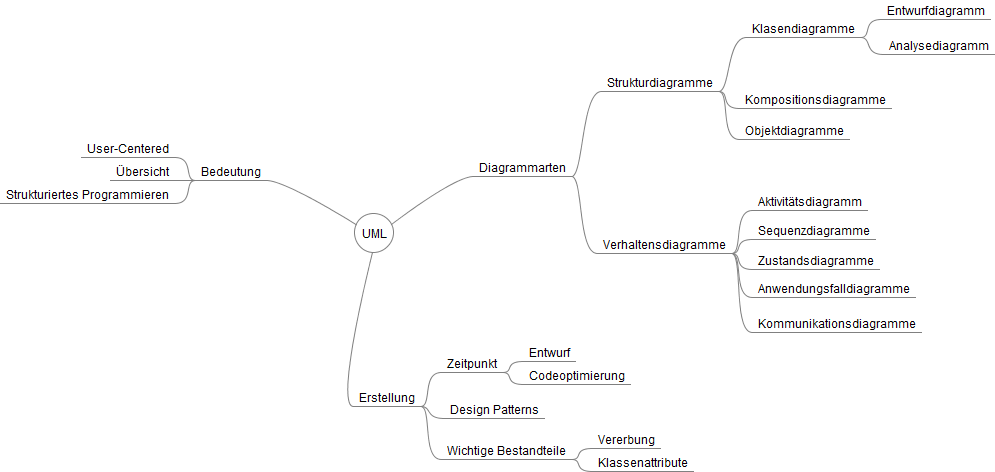
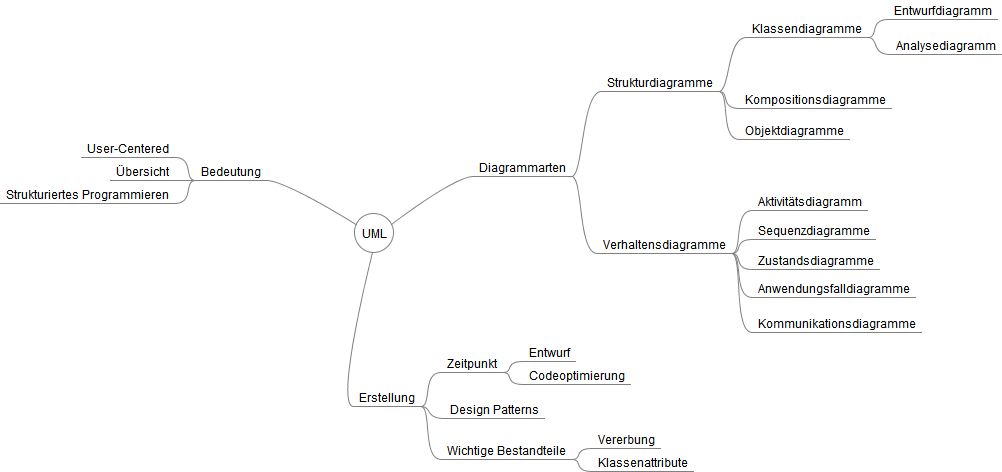
Correct spelling

diff --git a/aufgabe_2/mindmap.mm b/aufgabe_2/mindmap.mm
@@ -3,7 +3,7 @@
 <node CREATED="1524169838149" ID="ID_367882199" MODIFIED="1524170025086" TEXT="UML">
 <node CREATED="1524169939257" HGAP="79" ID="ID_1596124129" MODIFIED="1524169969934" POSITION="right" TEXT="Diagrammarten" VSHIFT="-6">
 <node CREATED="1524169976597" HGAP="29" ID="ID_1167083542" MODIFIED="1524170300770" TEXT="Strukturdiagramme" VSHIFT="-28">
-<node CREATED="1524170040855" HGAP="27" ID="ID_594675306" MODIFIED="1524170296190" TEXT="Klasendiagramme" VSHIFT="-31">
+<node CREATED="1524170040855" HGAP="27" ID="ID_594675306" MODIFIED="1530186577568" TEXT="Klassendiagramme" VSHIFT="-31">
 <node CREATED="1524170050728" ID="ID_339991840" MODIFIED="1524170318227" TEXT="Entwurfdiagramm" VSHIFT="-7"/>
 <node CREATED="1524170062658" HGAP="22" ID="ID_1450671101" MODIFIED="1524170320587" TEXT="Analysediagramm" VSHIFT="5"/>
 </node>
